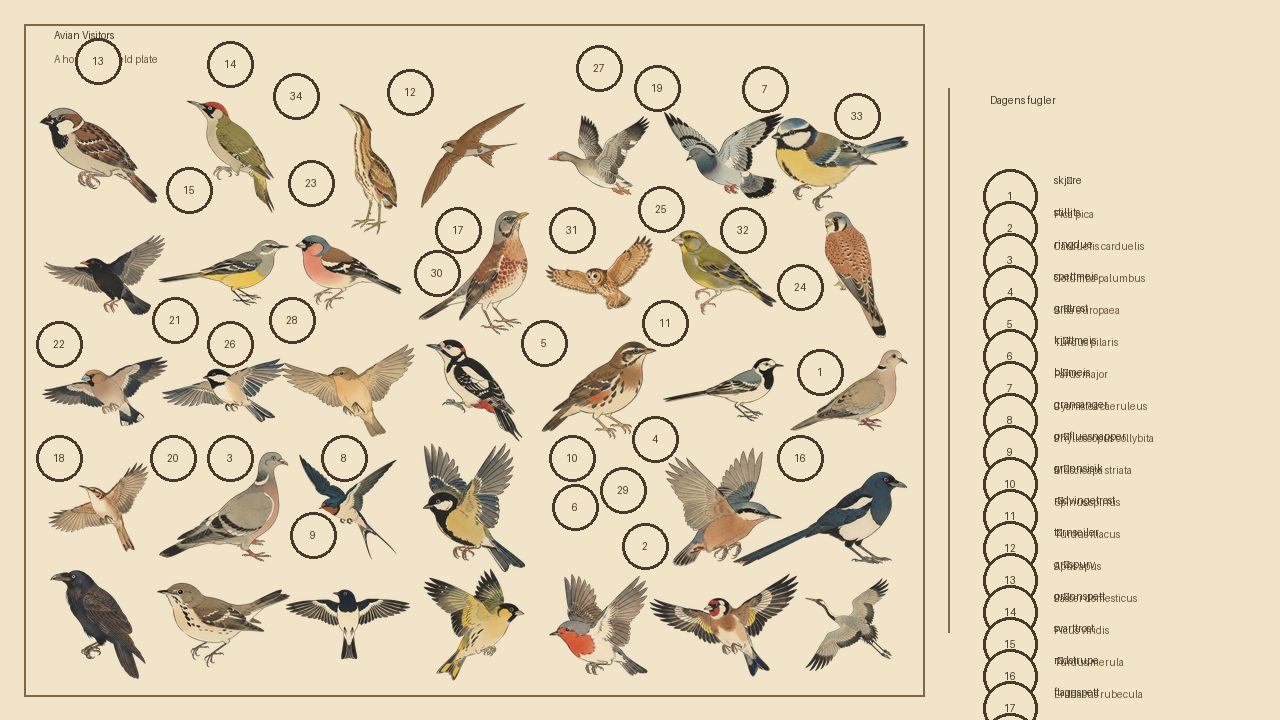
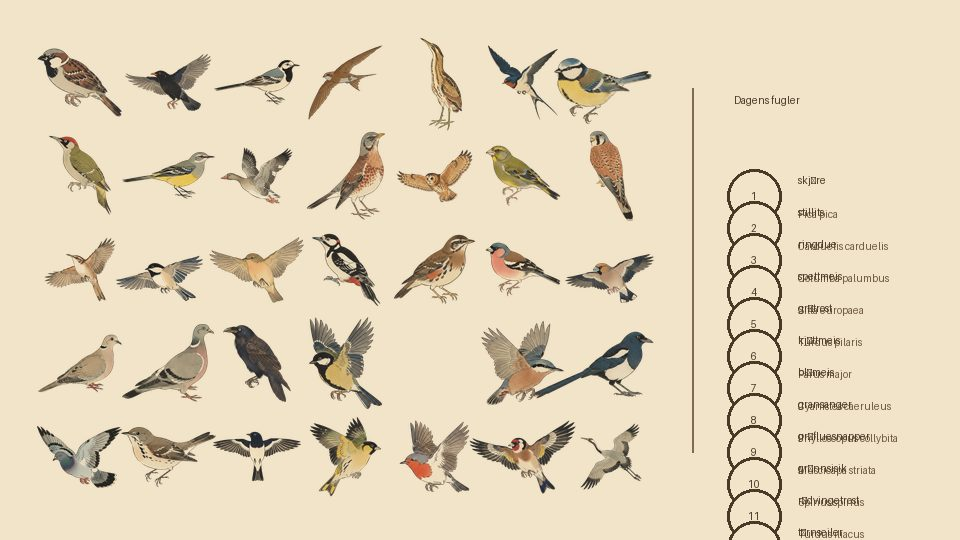
Add four-layout art picker and README preview grid
The layout picker now offers four selectable art versions — Living
collage, Field plate, Latest visitor, and Field journal (with handwritten
bird counts) — with example images rendered from the live instance. The
README gains a 2x2 preview grid at the top so visitors can see what
BirdFrame produces.

Changed region(s): [[0.0, 0.0296, 0.9375, 1.0], [0.7812, 0.1185, 0.8438, 0.1481]]

diff --git a/frontend/src/App.tsx b/frontend/src/App.tsx
@@ -86,11 +86,23 @@ function ArtworkForm({ form, update }: { form: Settings; update: (k: keyof Setti
 }
 const LAYOUT_OPTIONS = [
   { id: "collage", label: "Living collage", image: "/layouts/collage.jpg" },
+  { id: "field-plate", label: "Field plate", image: "/layouts/field-plate.jpg" },
   { id: "latest", label: "Latest visitor", image: "/layouts/latest.jpg" },
   { id: "journal", label: "Field journal", image: "/layouts/journal.jpg" },
 ];
-function LayoutPicker({ value, onChange }: { value: string; onChange: (layout: string) => void }) { return <div className="layout-options">{LAYOUT_OPTIONS.map((option) => <button type="button" key={option.id} className={`layout-option ${value === option.id ? "selected" : ""}`} onClick={() => onChange(option.id)}><img src={option.image} alt={option.label} /><span>{option.label}</span></button>)}</div>; }
-function DisplayForm({ form, update }: { form: Settings; update: (k: keyof Settings, v: string | boolean) => void }) { return <><div className="field layout-field"><span>Display layout</span><LayoutPicker value={form.displayMode} onChange={(v) => update("displayMode", v)} /><small>What the frame shows — click a preview to choose.</small></div><div className="form-grid"><Field label="Collage window"><select value={form.collageWindow} onChange={(e) => update("collageWindow", e.target.value)}><option value="1h">1 hour</option><option value="12h">12 hours</option><option value="24h">24 hours</option><option value="7d">7 days</option></select></Field><Field label="TV updates at most every"><select value={form.refreshMinutes} onChange={(e) => update("refreshMinutes", e.target.value)}><option value="5">5 minutes</option><option value="15">15 minutes</option><option value="30">30 minutes</option></select></Field></div><div className="form-grid"><Field label="TV MAC address" hint="Needed for automatic wake; for example AA:BB:CC:DD:EE:FF."><input value={form.tvMac} placeholder="AA:BB:CC:DD:EE:FF" onChange={(e) => update("tvMac", e.target.value)} /></Field></div><div className="form-grid"><Field label="Quiet hours start"><input type="time" value={form.quietStart} onChange={(e) => update("quietStart", e.target.value)} /></Field><Field label="Quiet hours end"><input type="time" value={form.quietEnd} onChange={(e) => update("quietEnd", e.target.value)} /></Field></div><div className="toggle-row"><div><strong>Automatically select new artwork on TV</strong><p>Uploads and selects the newest composition at the chosen cadence.</p></div><button type="button" className={form.tvAutoUpdate ? "toggle on" : "toggle"} aria-label="Toggle automatic TV updates" onClick={() => update("tvAutoUpdate", !form.tvAutoUpdate)}><i></i></button></div><div className="toggle-row"><div><strong>Wake TV for a new composition</strong><p>Sends a Wake-on-LAN packet before an automatic update, only outside quiet hours.</p></div><button type="button" className={form.wakeTv ? "toggle on" : "toggle"} aria-label="Toggle wake TV" onClick={() => update("wakeTv", !form.wakeTv)}><i></i></button></div></>; }
+function layoutId(form: Settings): string {
+  if (form.displayMode === "journal") return "journal";
+  if (form.displayMode === "latest") return "latest";
+  return form.collageStyle === "avianvisitors_horizontal" ? "field-plate" : "collage";
+}
+function applyLayout(form: Settings, id: string, update: (k: keyof Settings, v: string | boolean) => void) {
+  if (id === "journal") { update("displayMode", "journal"); }
+  else if (id === "latest") { update("displayMode", "latest"); }
+  else if (id === "field-plate") { update("displayMode", "collage"); update("collageStyle", "avianvisitors_horizontal"); }
+  else { update("displayMode", "collage"); update("collageStyle", "classic"); }
+}
+function LayoutPicker({ selected, onSelect }: { selected: string; onSelect: (id: string) => void }) { return <div className="layout-options">{LAYOUT_OPTIONS.map((option) => <button type="button" key={option.id} className={`layout-option ${selected === option.id ? "selected" : ""}`} onClick={() => onSelect(option.id)}><img src={option.image} alt={option.label} /><span>{option.label}</span></button>)}</div>; }
+function DisplayForm({ form, update }: { form: Settings; update: (k: keyof Settings, v: string | boolean) => void }) { return <><div className="field layout-field"><span>Display layout</span><LayoutPicker selected={layoutId(form)} onSelect={(id) => applyLayout(form, id, update)} /><small>What the frame shows — click a preview to choose.</small></div><div className="form-grid"><Field label="Collage window"><select value={form.collageWindow} onChange={(e) => update("collageWindow", e.target.value)}><option value="1h">1 hour</option><option value="12h">12 hours</option><option value="24h">24 hours</option><option value="7d">7 days</option></select></Field><Field label="TV updates at most every"><select value={form.refreshMinutes} onChange={(e) => update("refreshMinutes", e.target.value)}><option value="5">5 minutes</option><option value="15">15 minutes</option><option value="30">30 minutes</option></select></Field></div><div className="form-grid"><Field label="TV MAC address" hint="Needed for automatic wake; for example AA:BB:CC:DD:EE:FF."><input value={form.tvMac} placeholder="AA:BB:CC:DD:EE:FF" onChange={(e) => update("tvMac", e.target.value)} /></Field></div><div className="form-grid"><Field label="Quiet hours start"><input type="time" value={form.quietStart} onChange={(e) => update("quietStart", e.target.value)} /></Field><Field label="Quiet hours end"><input type="time" value={form.quietEnd} onChange={(e) => update("quietEnd", e.target.value)} /></Field></div><div className="toggle-row"><div><strong>Automatically select new artwork on TV</strong><p>Uploads and selects the newest composition at the chosen cadence.</p></div><button type="button" className={form.tvAutoUpdate ? "toggle on" : "toggle"} aria-label="Toggle automatic TV updates" onClick={() => update("tvAutoUpdate", !form.tvAutoUpdate)}><i></i></button></div><div className="toggle-row"><div><strong>Wake TV for a new composition</strong><p>Sends a Wake-on-LAN packet before an automatic update, only outside quiet hours.</p></div><button type="button" className={form.wakeTv ? "toggle on" : "toggle"} aria-label="Toggle wake TV" onClick={() => update("wakeTv", !form.wakeTv)}><i></i></button></div></>; }
 function AssetStep({ form, update }: { form: Settings; update: (k: keyof Settings, v: string | boolean) => void }) {
   const [catalog, setCatalog] = useState<Array<{ id: string; version?: string; download_url: string; sha256: string }>>([]);
   const [message, setMessage] = useState("");
@@ -138,7 +150,7 @@ function SettingsPanelContent() {
   const loadModels = async () => { if (!await save()) return; try { setModels(await api.models()); setOperations("Image-capable OpenRouter models loaded."); } catch { setOperations("Could not load models. Check the API key and try again."); } };
   const generate = async () => { if (!await save()) return; try { const species = (await api.occurrences()).filter((entry) => !entry.has_artwork).slice(0, 12).map(({ common_name, scientific_name }) => ({ common_name, scientific_name })); if (!species.length) { setOperations("All observed species already have artwork."); return; } const job = await api.generateArt({ species, poses: "both" }); setOperations(`Artwork job ${job.id} queued for ${species.length} species missing artwork. Track it in Activity log below.`); } catch { setOperations("Could not start artwork generation. Load a model and confirm detections are available."); } };
   return <form className="settings-form" onSubmit={save}>
-    <section className="settings-section"><div><p className="eyebrow">OPENROUTER ARTWORK</p><h2>Create your bird library</h2><p>Save your key, load the available image models, choose one, then generate reusable bird assets for the species BirdFrame has observed but still lacks artwork for.</p></div><div><div className="form-grid"><Field label="OpenRouter API key" hint="Encrypted at rest and never returned to the browser after saving." badge={hasOpenRouterKey ? <em className="saved-badge">✓ Key saved</em> : undefined}><input type="password" value={form.openrouterApiKey} placeholder={hasOpenRouterKey ? "sk-or-v1-… (replace only if needed)" : "sk-or-v1-…"} onChange={(e) => update("openrouterApiKey", e.target.value)} /></Field><Field label="Image model"><input list="openrouter-models" value={form.openrouterModel} placeholder="Save key, then load models" onChange={(e) => update("openrouterModel", e.target.value)} /><datalist id="openrouter-models">{models.map((model) => <option key={model.id} value={model.id}>{model.name || model.id}</option>)}</datalist></Field><Field label="Paper tone"><select value={form.paperTone} onChange={(e) => update("paperTone", e.target.value)}><option>warm cream</option><option>aged mulberry</option><option>soft white</option></select></Field><Field label="Palette"><select value={form.palette} onChange={(e) => update("palette", e.target.value)}><option>earthy</option><option>muted garden</option><option>indigo &amp; vermillion</option></select></Field><div className="field layout-field"><span>Display layout</span><LayoutPicker value={form.displayMode} onChange={(v) => update("displayMode", v)} /><small>What the frame shows — click a preview to choose.</small></div></div><div className="setup-actions"><button type="button" className="button ghost" onClick={() => void loadModels()}>Load image models</button><button type="button" className="button primary" onClick={() => void generate()}>Generate artwork for missing species</button></div>{operations && <p className="form-notice">{operations}</p>}<div className="callout"><span>⚠</span><div><strong>Generation costs money</strong><p>Each generation normally costs around 0.06 USD per bird, and only species without artwork are queued.</p></div></div><p className="help-text">Generated PNG assets and compositions are stored under <code>/data/art</code>; Docker Compose maps that directory to <code>./data</code> by default, so they survive image/container updates.</p></div></section>
+    <section className="settings-section"><div><p className="eyebrow">OPENROUTER ARTWORK</p><h2>Create your bird library</h2><p>Save your key, load the available image models, choose one, then generate reusable bird assets for the species BirdFrame has observed but still lacks artwork for.</p></div><div><div className="form-grid"><Field label="OpenRouter API key" hint="Encrypted at rest and never returned to the browser after saving." badge={hasOpenRouterKey ? <em className="saved-badge">✓ Key saved</em> : undefined}><input type="password" value={form.openrouterApiKey} placeholder={hasOpenRouterKey ? "sk-or-v1-… (replace only if needed)" : "sk-or-v1-…"} onChange={(e) => update("openrouterApiKey", e.target.value)} /></Field><Field label="Image model"><input list="openrouter-models" value={form.openrouterModel} placeholder="Save key, then load models" onChange={(e) => update("openrouterModel", e.target.value)} /><datalist id="openrouter-models">{models.map((model) => <option key={model.id} value={model.id}>{model.name || model.id}</option>)}</datalist></Field><Field label="Paper tone"><select value={form.paperTone} onChange={(e) => update("paperTone", e.target.value)}><option>warm cream</option><option>aged mulberry</option><option>soft white</option></select></Field><Field label="Palette"><select value={form.palette} onChange={(e) => update("palette", e.target.value)}><option>earthy</option><option>muted garden</option><option>indigo &amp; vermillion</option></select></Field><div className="field layout-field"><span>Display layout</span><LayoutPicker selected={layoutId(form)} onSelect={(id) => applyLayout(form, id, update)} /><small>What the frame shows — click a preview to choose.</small></div></div><div className="setup-actions"><button type="button" className="button ghost" onClick={() => void loadModels()}>Load image models</button><button type="button" className="button primary" onClick={() => void generate()}>Generate artwork for missing species</button></div>{operations && <p className="form-notice">{operations}</p>}<div className="callout"><span>⚠</span><div><strong>Generation costs money</strong><p>Each generation normally costs around 0.06 USD per bird, and only species without artwork are queued.</p></div></div><p className="help-text">Generated PNG assets and compositions are stored under <code>/data/art</code>; Docker Compose maps that directory to <code>./data</code> by default, so they survive image/container updates.</p></div></section>
     <section className="settings-section"><div><p className="eyebrow">DISPLAY API</p><h2>Same art, anywhere</h2><p>The JPEG endpoint serves the byte-identical composition sent to the Frame.</p></div><div className="api-url"><code>{window.location.origin}/api/v1/display/current.jpg</code><a href="/api/v1/display/current.jpg" target="_blank">Open ↗</a></div></section>
     <footer className="save-bar"><span>{message}</span><button className="button primary" type="submit">Save changes</button></footer>
   </form>;

diff --git a/README.md b/README.md
@@ -20,6 +20,18 @@ AvianVisitors code or artwork; see
 [THIRD_PARTY_NOTICES.md](THIRD_PARTY_NOTICES.md) for attribution details,
 including the bundled OFL fonts (Caveat and Libre Baskerville).
 
+## Four ways to see your backyard
+
+| Living collage | Field plate |
+| --- | --- |
+| ![Living collage](frontend/public/layouts/collage.jpg) | ![Field plate](frontend/public/layouts/field-plate.jpg) |
+| Latest visitor | Field journal |
+| ![Latest visitor](frontend/public/layouts/latest.jpg) | ![Field journal](frontend/public/layouts/journal.jpg) |
+
+Pick a layout in Settings or the setup guide. The Field journal is the
+quietest of the four: a longhand date, a three-column grid of the day's
+species, and each bird's count written in handwriting at its lower right.
+
 ## Screenshots
 
 ![The BirdFrame overview shows the current collage and recent visitors.](docs/screenshots/overview.png)
